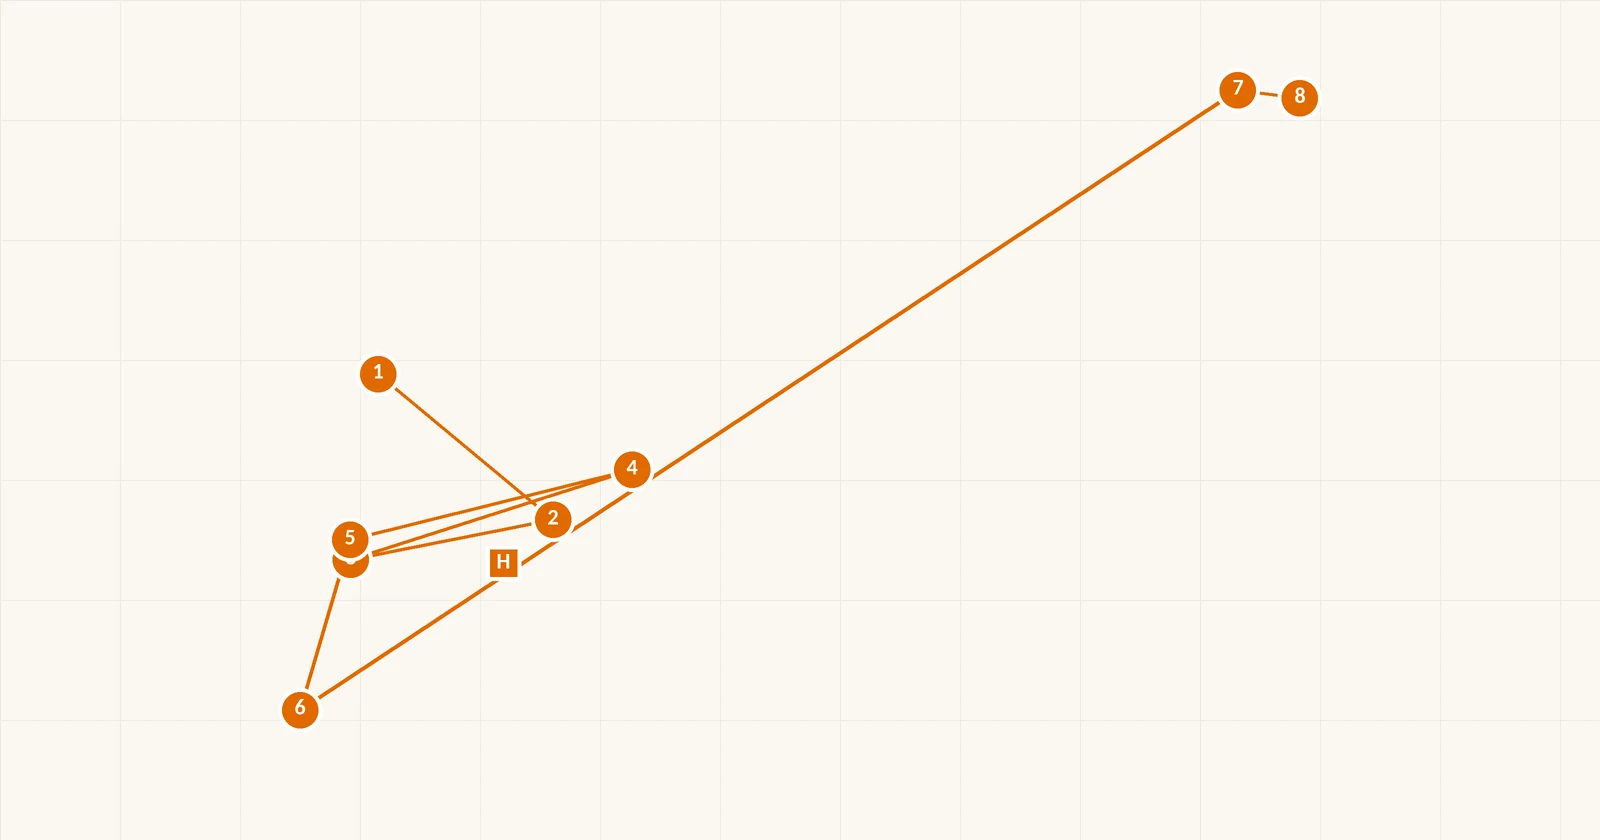
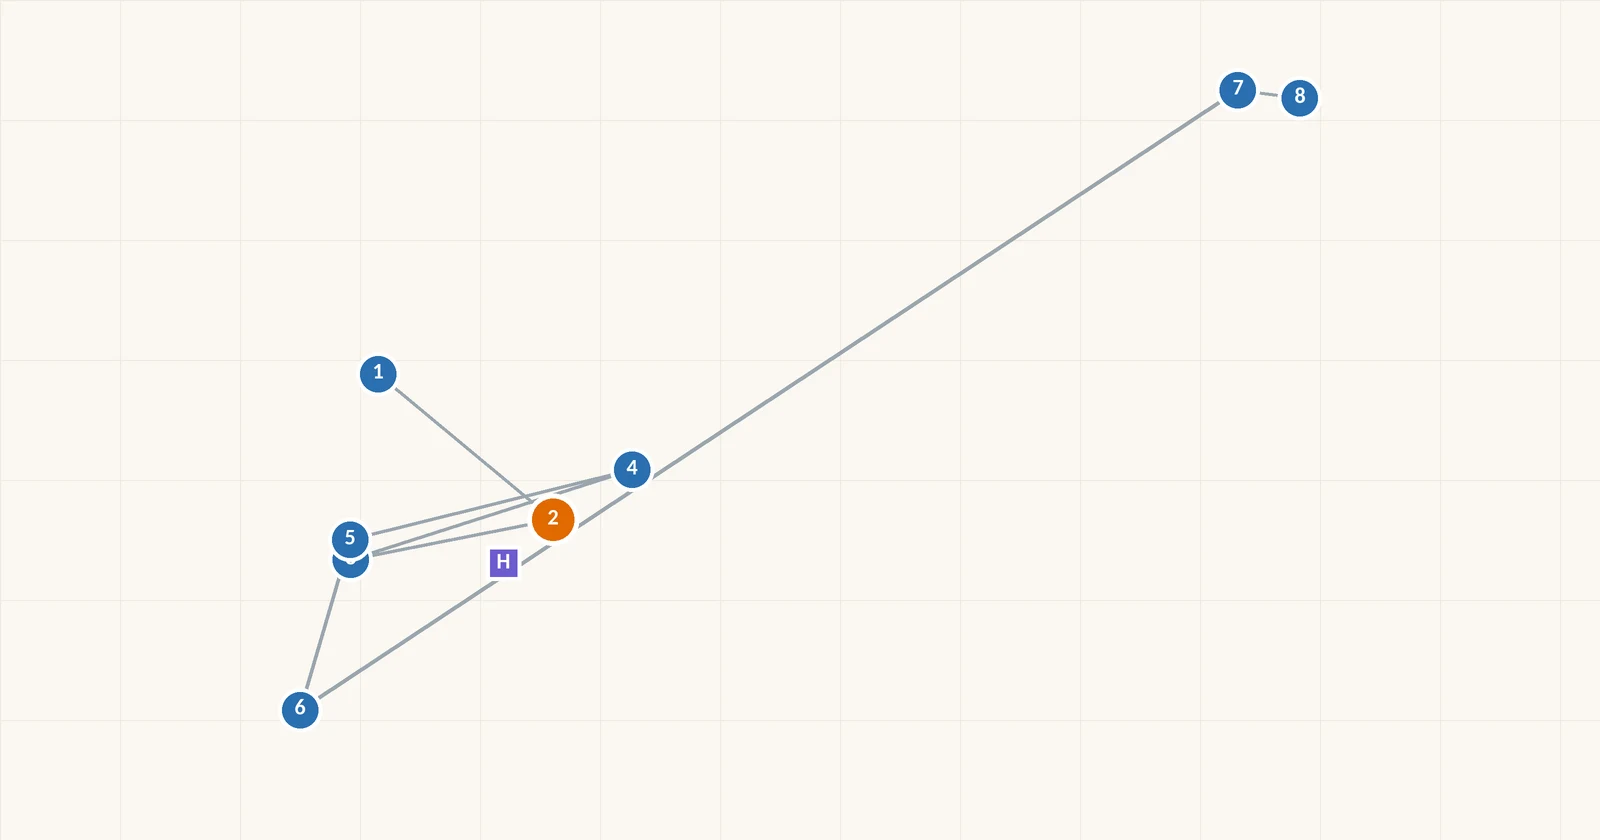
stop colours: market orange only, sights blue, lodging purple; market never clustered

diff --git a/assets/css/style.css b/assets/css/style.css
@@ -1094,14 +1094,22 @@ body:has(.home-map--first)::before{background:linear-gradient(rgba(252,249,243,.
 .pw__tabad::before{content:"\00a0\00b7\00a0"}
 .pw__tabbrand{display:inline;margin:0 0 0 .5em;font-weight:800;letter-spacing:0;text-transform:none;color:var(--ink)}
 .pw__tabbrand::before{content:"\00b7\00a0";font-weight:400;color:#666}
-/* Stops: every map marker and list number is orange (Dongho 2026-11-28). */
-:root{--stop-orange:#E06A00}
-.tour-marker__badge,.tour-marker__badge--market,.tour-marker__badge--lodging,.tour-marker__badge--cluster{background:var(--stop-orange)}
-.tour-legend__dot,.tour-legend__item--market .tour-legend__dot,.tour-legend__item--lodging .tour-legend__dot{background:var(--stop-orange)}
-.tour-summary__stops li::before,.tour-summary__stops li.stop--market::before,.tour-summary__stops li.stop--lodging::before{background:var(--stop-orange)}
-.tour-legend{display:none}
-.tour-title .tour-lab--attraction,.tour-title .tour-lab--market,.tour-title .tour-lab--lodging{color:#9A4A00;border-color:var(--stop-orange)}
+/* Stop colours (Dongho 2026-11-28): market = orange, other sights = blue, lodging = purple. */
+:root{--stop-orange:#E06A00;--stop-blue:#2A6FB0;--stop-purple:#6D5BD0}
+.tour-marker__badge{background:var(--stop-blue)}
+.tour-marker__badge--market{background:var(--stop-orange)}
+.tour-marker__badge--lodging{background:var(--stop-purple)}
+.tour-legend__dot{background:var(--stop-blue)}
+.tour-legend__item--market .tour-legend__dot{background:var(--stop-orange)}
+.tour-legend__item--lodging .tour-legend__dot{background:var(--stop-purple)}
+.tour-summary__stops li::before{background:var(--stop-blue)}
+.tour-summary__stops li.stop--market::before{background:var(--stop-orange)}
+.tour-summary__stops li.stop--lodging::before{background:var(--stop-purple)}
+.tour-title .tour-lab--attraction{color:#1D5189;border-color:var(--stop-blue)}
+.tour-title .tour-lab--market{color:#9A4A00;border-color:var(--stop-orange)}
+.tour-title .tour-lab--lodging{color:#5A48B8;border-color:var(--stop-purple)}
 /* numbered stop headings in the article */
 h3.stop{display:flex;align-items:center;gap:.6em;margin:2.4em 0 .8em;padding-top:1.1em;border-top:1px solid var(--line)}
-h3.stop::before{content:attr(data-n);flex:0 0 auto;display:inline-flex;align-items:center;justify-content:center;width:1.9em;height:1.9em;border-radius:50%;background:var(--stop-orange);color:#fff;font:800 .8em/1 var(--font-sans);box-shadow:0 0 0 3px #fff,0 0 0 4px var(--stop-orange)}
+h3.stop::before{content:attr(data-n);flex:0 0 auto;display:inline-flex;align-items:center;justify-content:center;width:1.9em;height:1.9em;border-radius:50%;background:var(--stop-blue);color:#fff;font:800 .8em/1 var(--font-sans);box-shadow:0 0 0 3px #fff,0 0 0 4px var(--stop-blue)}
 h3.stop-market{border-top:3px solid var(--stop-orange);padding-top:1.3em;margin-top:3em}
+h3.stop-market::before{background:var(--stop-orange);box-shadow:0 0 0 3px #fff,0 0 0 4px var(--stop-orange)}

diff --git a/layouts/partials/tour-summary.html b/layouts/partials/tour-summary.html
@@ -308,7 +308,7 @@
     var pts = latlngs.map(function (ll) { return containerPt(ll); });
     for (var i = 0; i < n; i++) {
       for (var j = i + 1; j < n; j++) {
-        if ((stops[i].type === "lodging" || stops[i].type === "transit" || stops[j].type === "lodging" || stops[j].type === "transit")) continue;
+        if ((stops[i].type === "lodging" || stops[i].type === "transit" || stops[i].type === "market" || stops[j].type === "lodging" || stops[j].type === "transit" || stops[j].type === "market")) continue;
         if (Math.hypot(pts[i].x - pts[j].x, pts[i].y - pts[j].y) < MIN_SEP) union(i, j);
       }
     }
@@ -326,7 +326,7 @@
         /* A lodging or transit pin that sits on top of another stop is nudged
            16 px right and 18 px down (pixel offset, so it stays apart at any zoom). */
         var crowded = false;
-        if (s.type === "lodging" || s.type === "transit") {
+        if (s.type === "lodging" || s.type === "transit" || s.type === "market") {
           for (var oi = 0; oi < n; oi++) {
             if (oi !== si && Math.hypot(pts[oi].x - pts[si].x, pts[oi].y - pts[si].y) < MIN_SEP) { crowded = true; break; }
           }
@@ -334,6 +334,7 @@
         var ax = bw / 2 - (crowded ? 16 : 0), ay = BADGE_R - (crowded ? 18 : 0);
         var mk = L.marker(latlngs[si], {
           pane: "tourBadgePane",
+          zIndexOffset: s.type === "market" ? 1000 : 0,
           icon: L.divIcon({ className: "tour-marker-wrap",
             html: '<span class="' + badgeCls(s, badgeText(si)) + '">' + badgeText(si) + '</span>',
             iconSize: [bw, BADGE_D], iconAnchor: [ax, ay] })
